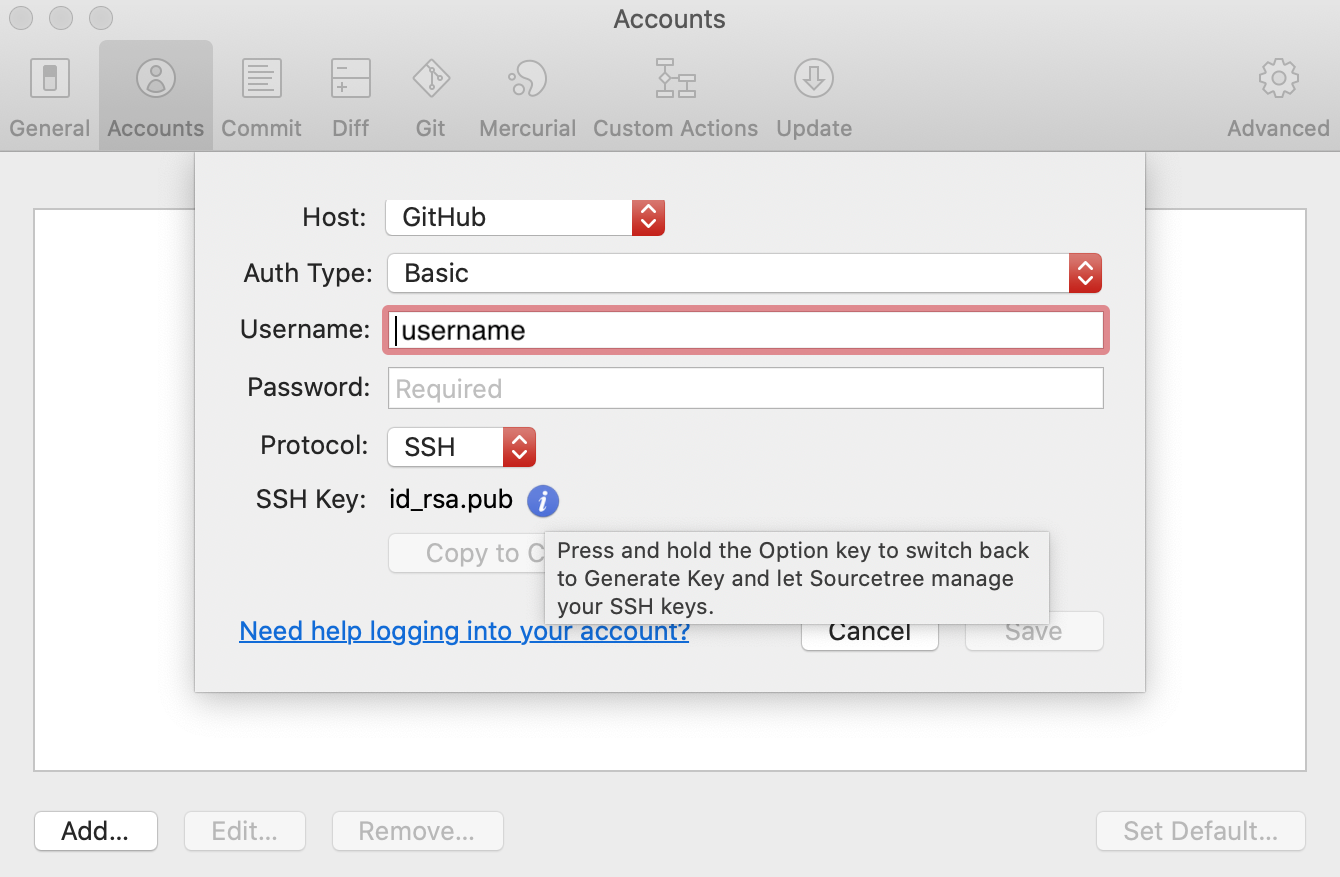
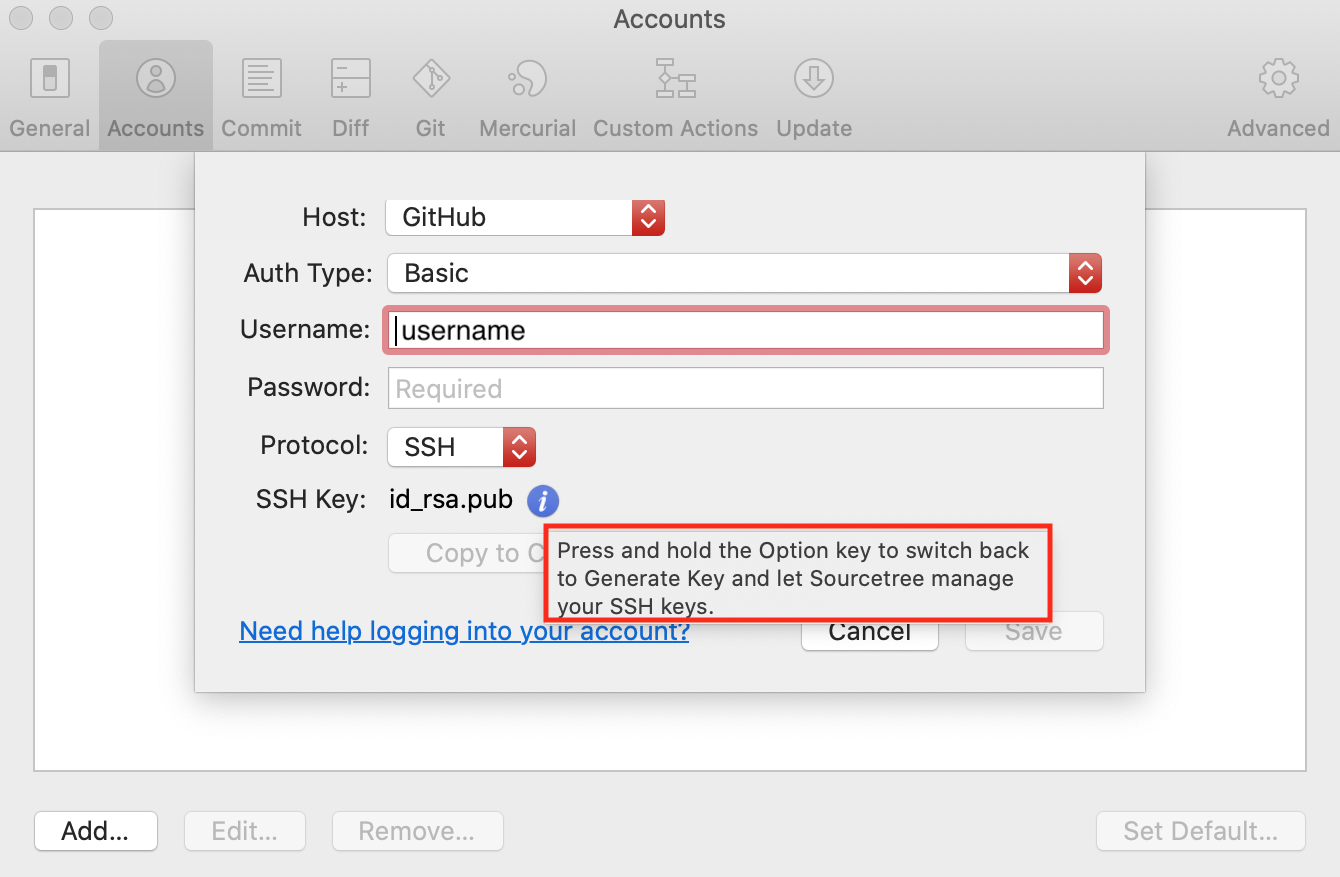
merged step 8 and 9

Changed region(s): [[0.3978, 0.5849, 0.7955, 0.7081]]

diff --git a/pages/manuals/manuals_linux-cluster_login_macos.md b/pages/manuals/manuals_linux-cluster_login_macos.md
@@ -40,20 +40,14 @@ The `Password+DUO` method requires a UCR NetID, if you do not have this then you
 
 7. Enter your HPCC username in the `Username` field.
 
-   ![fig0](images/44.png)
+   ![fig0](images/44.png)  
+ 
+ 
+8. Click the `Generate Key` button.
    
-8. Create your `SSH keys` by holding down the Mac's option key to update the `Copy to Clipboard` button to `Generate Key`.
-
-   ![fig0](images/13e.png)
-   
-   If you have existing keys, they will appear next to the `SSH Key:` locked field, however you should create new ones for explicit HPCC access.
-
-9. Click the `Generate Key` button.
-   
-   ![fig1](images/45b.png)
-
-   
-
+   ![fig1](images/45b.png)  
+ 
+ 
 #### Key Location
 
 By default, your key is created in the path: `/Users/macOSUsername/.ssh/`, the private ``id_rsa`` and public ``id_rsa.pub`` key files.
@@ -71,7 +65,7 @@ To verify that the keys were created, do the following:
 3. Type in `.ssh`
 
    ![fig1](images/24.png)
-
+ 
 4. You should see your generated pair of key files in the folder. 
 
    ![fig1](images/46.png)
